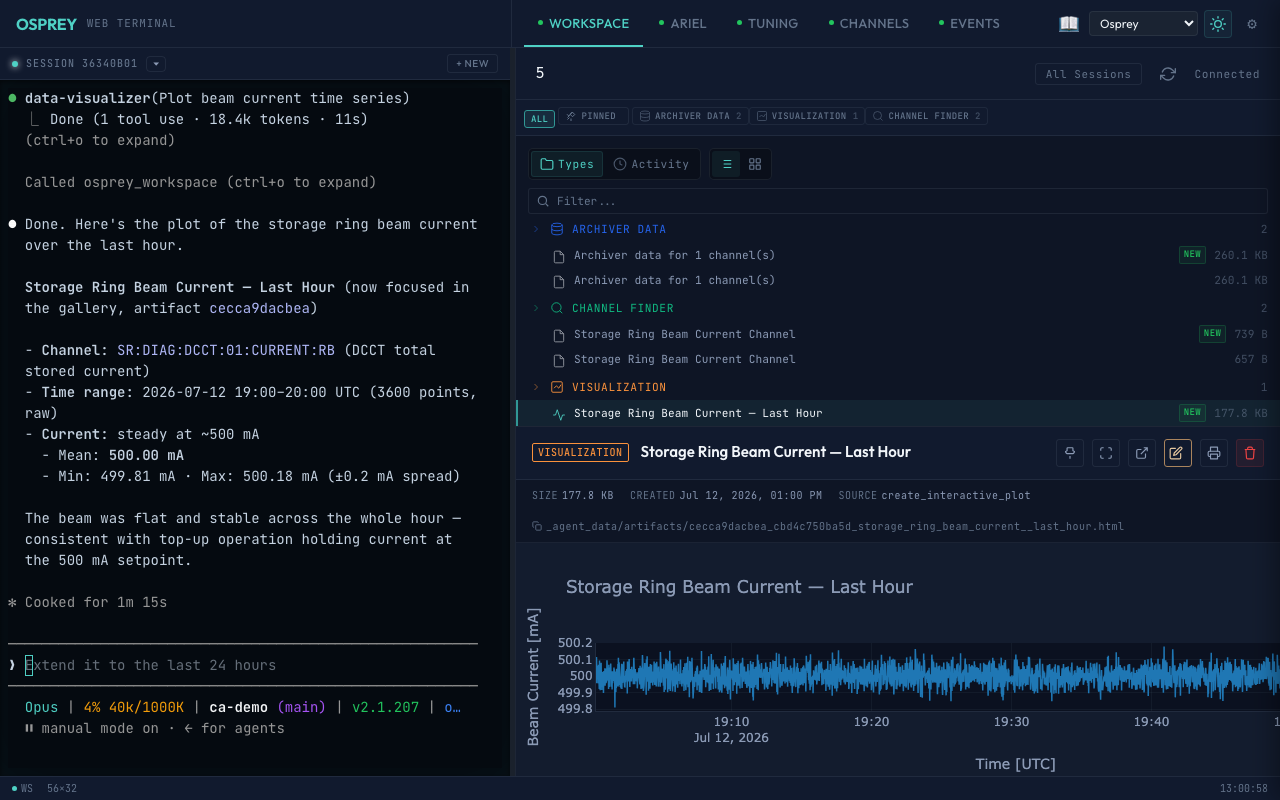
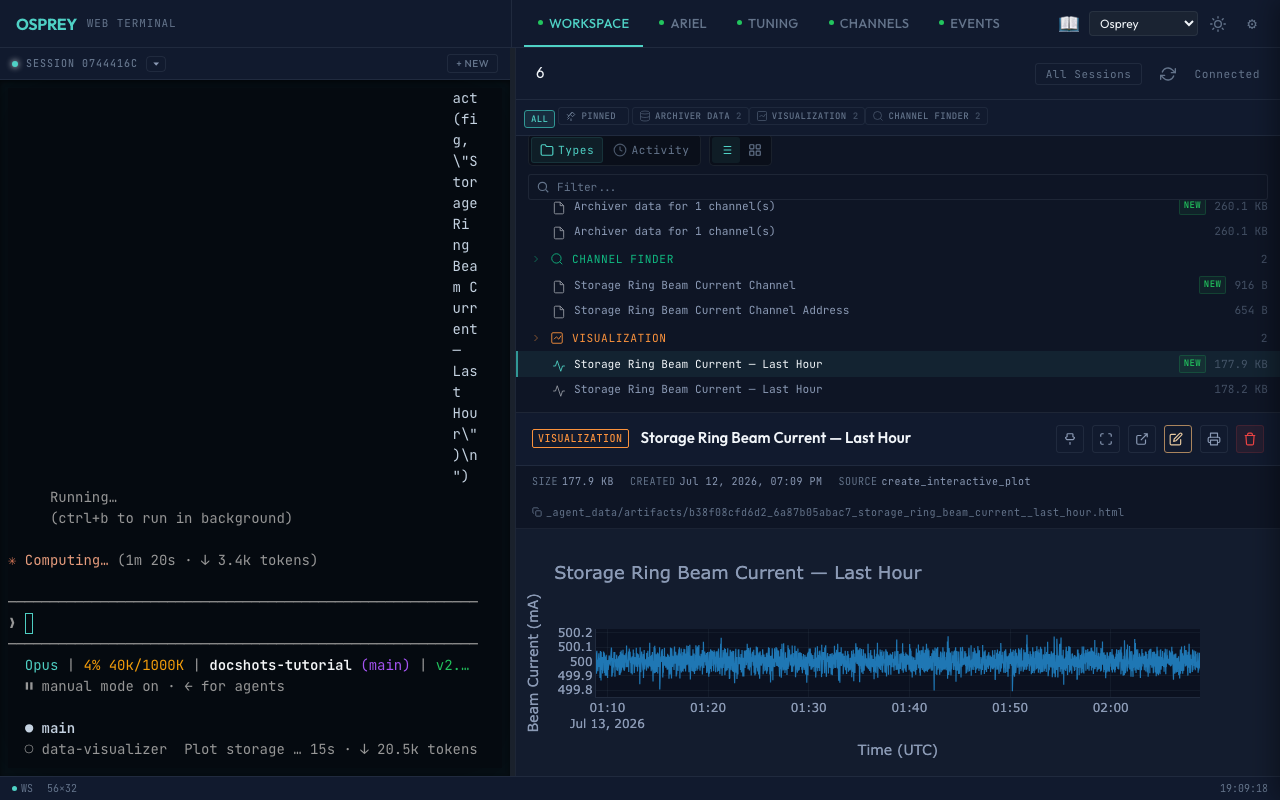
fix(docs): drive the agentic web-terminal hero to a rendered plot
Make the live web-terminal hero capture reliably produce the beam-current
plot in both themes:

- Settle after accepting the Claude Code trust prompt before typing, so the
  operator prompt reaches the REPL instead of being dropped during the
  trust->REPL transition.
- Select the plot artifact by id in the embedded gallery. The panel defaults
  to the tree view (rows, not a card grid); a data-id selector reveals the
  plot's preview regardless of view mode, and pins it to the plot even as the
  agent keeps emitting later artifacts.
- Baseline each theme against pre-existing artifacts so it waits for the plot
  its own prompt produced, not one carried over in the shared store.

Also make the tutorial-stack skip test hermetic so it never builds a real
container stack, and regenerate both hero PNGs.

diff --git a/docs/screenshots/capture.py b/docs/screenshots/capture.py
@@ -427,24 +427,51 @@ def assert_hero_structural(png_bytes: bytes, viewport: tuple[int, int]) -> None:
         raise AssertionError("hero PNG is a single uniform color (blank capture)")
 
 
-def _wait_for_artifact(artifact_port: int, needle: str, *, timeout: float) -> None:
-    """Poll the artifact server until an ``artifact_type`` contains ``needle``.
+def _fetch_artifacts(artifact_port: int) -> list[dict]:
+    """Return the artifact-server's current artifact list ([] on any error)."""
+    url = f"http://127.0.0.1:{artifact_port}/api/artifacts"
+    try:
+        with urllib.request.urlopen(url, timeout=5.0) as resp:  # noqa: S310 (loopback only)
+            return json.loads(resp.read().decode()).get("artifacts", [])
+    except (urllib.error.URLError, json.JSONDecodeError, OSError):
+        return []
+
+
+def _artifact_ids(artifact_port: int) -> set[str]:
+    """Snapshot the ids already present, so a later wait can ignore them."""
+    return {a["id"] for a in _fetch_artifacts(artifact_port) if a.get("id")}
+
+
+def _wait_for_artifact(
+    artifact_port: int,
+    needle: str,
+    *,
+    timeout: float,
+    exclude_ids: set[str] | None = None,
+) -> str:
+    """Poll until a *new* ``artifact_type`` contains ``needle``; return its id.
+
+    ``exclude_ids`` are artifact ids already present before this theme's prompt
+    was submitted; matches against them are ignored so each theme waits for the
+    plot *its own* prompt produced (the artifact store accumulates across themes,
+    so a bare match would return the previous theme's stale plot immediately).
+
+    Returns the matched artifact's id so the caller can select *that* artifact in
+    the gallery — the agent often keeps producing artifacts (e.g. a summary) after
+    the plot, so the newest-auto-selected item is not reliably the plot.
 
     Raises :class:`TimeoutError` with a clear message if no matching artifact
     appears within ``timeout`` seconds, so a stalled agent run fails fast instead
     of hanging forever.
     """
-    url = f"http://127.0.0.1:{artifact_port}/api/artifacts"
+    seen = exclude_ids or set()
     deadline = time.monotonic() + timeout
     while time.monotonic() < deadline:
-        try:
-            with urllib.request.urlopen(url, timeout=5.0) as resp:  # noqa: S310 (loopback only)
-                payload = json.loads(resp.read().decode())
-        except (urllib.error.URLError, json.JSONDecodeError, OSError):
-            payload = {}
-        for artifact in payload.get("artifacts", []):
+        for artifact in _fetch_artifacts(artifact_port):
+            if artifact.get("id") in seen:
+                continue
             if needle in (artifact.get("artifact_type") or ""):
-                return
+                return artifact.get("id") or ""
         time.sleep(1.0)
     raise TimeoutError(
         f"no artifact with artifact_type containing {needle!r} appeared on "
@@ -506,19 +533,36 @@ def _capture_agentic(
 
                 # The Claude-Code trust prompt lives in the PTY, not the DOM:
                 # focus the terminal and answer it, then type the operator prompt.
+                # The Enter that accepts the trust prompt kicks the CLI into its
+                # REPL; typing before that transition finishes drops the prompt
+                # characters, so settle briefly before typing.
                 page.locator("#terminal-container").click(timeout=30_000)
                 page.keyboard.press("Enter")
+                page.wait_for_timeout(2_000)
+
+                # Baseline the artifacts already present (from earlier themes) so
+                # the wait below matches the plot *this* prompt produces, not a
+                # stale one carried over in the shared artifact store.
+                before = _artifact_ids(artifact_port)
                 page.keyboard.type(shot.prompt or "")
                 page.keyboard.press("Enter")
 
-                _wait_for_artifact(artifact_port, shot.wait_for or "", timeout=240.0)
+                plot_id = _wait_for_artifact(
+                    artifact_port, shot.wait_for or "", timeout=240.0, exclude_ids=before
+                )
 
+                # Reveal the artifacts panel and select the plot by its id. The
+                # embedded gallery defaults to the tree view (rows), not the card
+                # grid, and every row/card carries ``data-id`` — so a data-id
+                # selector reveals the plot's preview regardless of view mode,
+                # and (unlike relying on newest-auto-select) pins the preview to
+                # the plot even as the agent keeps emitting later artifacts.
                 page.locator('button[data-panel-id="artifacts"]').click(timeout=30_000)
                 panel = page.frame_locator('iframe.panel-iframe[data-panel-id="artifacts"]')
-                panel.locator(".gallery-card").first.click(timeout=30_000)
+                panel.locator(f'[data-id="{plot_id}"]').first.click(timeout=30_000)
 
-                # Let the preview render before shooting the viewport.
-                page.wait_for_timeout(1_000)
+                # Let the plot preview render (Plotly draws async) before shooting.
+                page.wait_for_timeout(2_000)
                 png = page.screenshot()
                 assert_hero_structural(png, shot.viewport)
 

diff --git a/tests/docs/screenshots/test_capture.py b/tests/docs/screenshots/test_capture.py
@@ -120,7 +120,20 @@ def test_manifest_recovers_from_malformed_file(tmp_path, monkeypatch) -> None:
 # ---------------------------------------------------------------------------
 
 
-def test_tutorial_stack_provider_skips() -> None:
+def test_tutorial_stack_provider_skips(monkeypatch) -> None:
+    # When the container stack can't be brought up, capture_tutorial_stack must
+    # degrade to a ScreenshotSkip rather than crash. Hermetic: mock the stack
+    # builder to skip so this never touches a real container runtime (keeping
+    # this file CI-safe regardless of whether podman happens to be running).
+    from contextlib import contextmanager
+
+    @contextmanager
+    def _skip_stack(*, artifact_port):
+        raise ScreenshotSkip("container runtime unavailable")
+        yield  # pragma: no cover - unreachable; marks this a generator
+
+    monkeypatch.setattr(capture, "_tutorial_stack", _skip_stack)
+
     shot = DocShot(
         name="hero",
         environment="tutorial_stack",